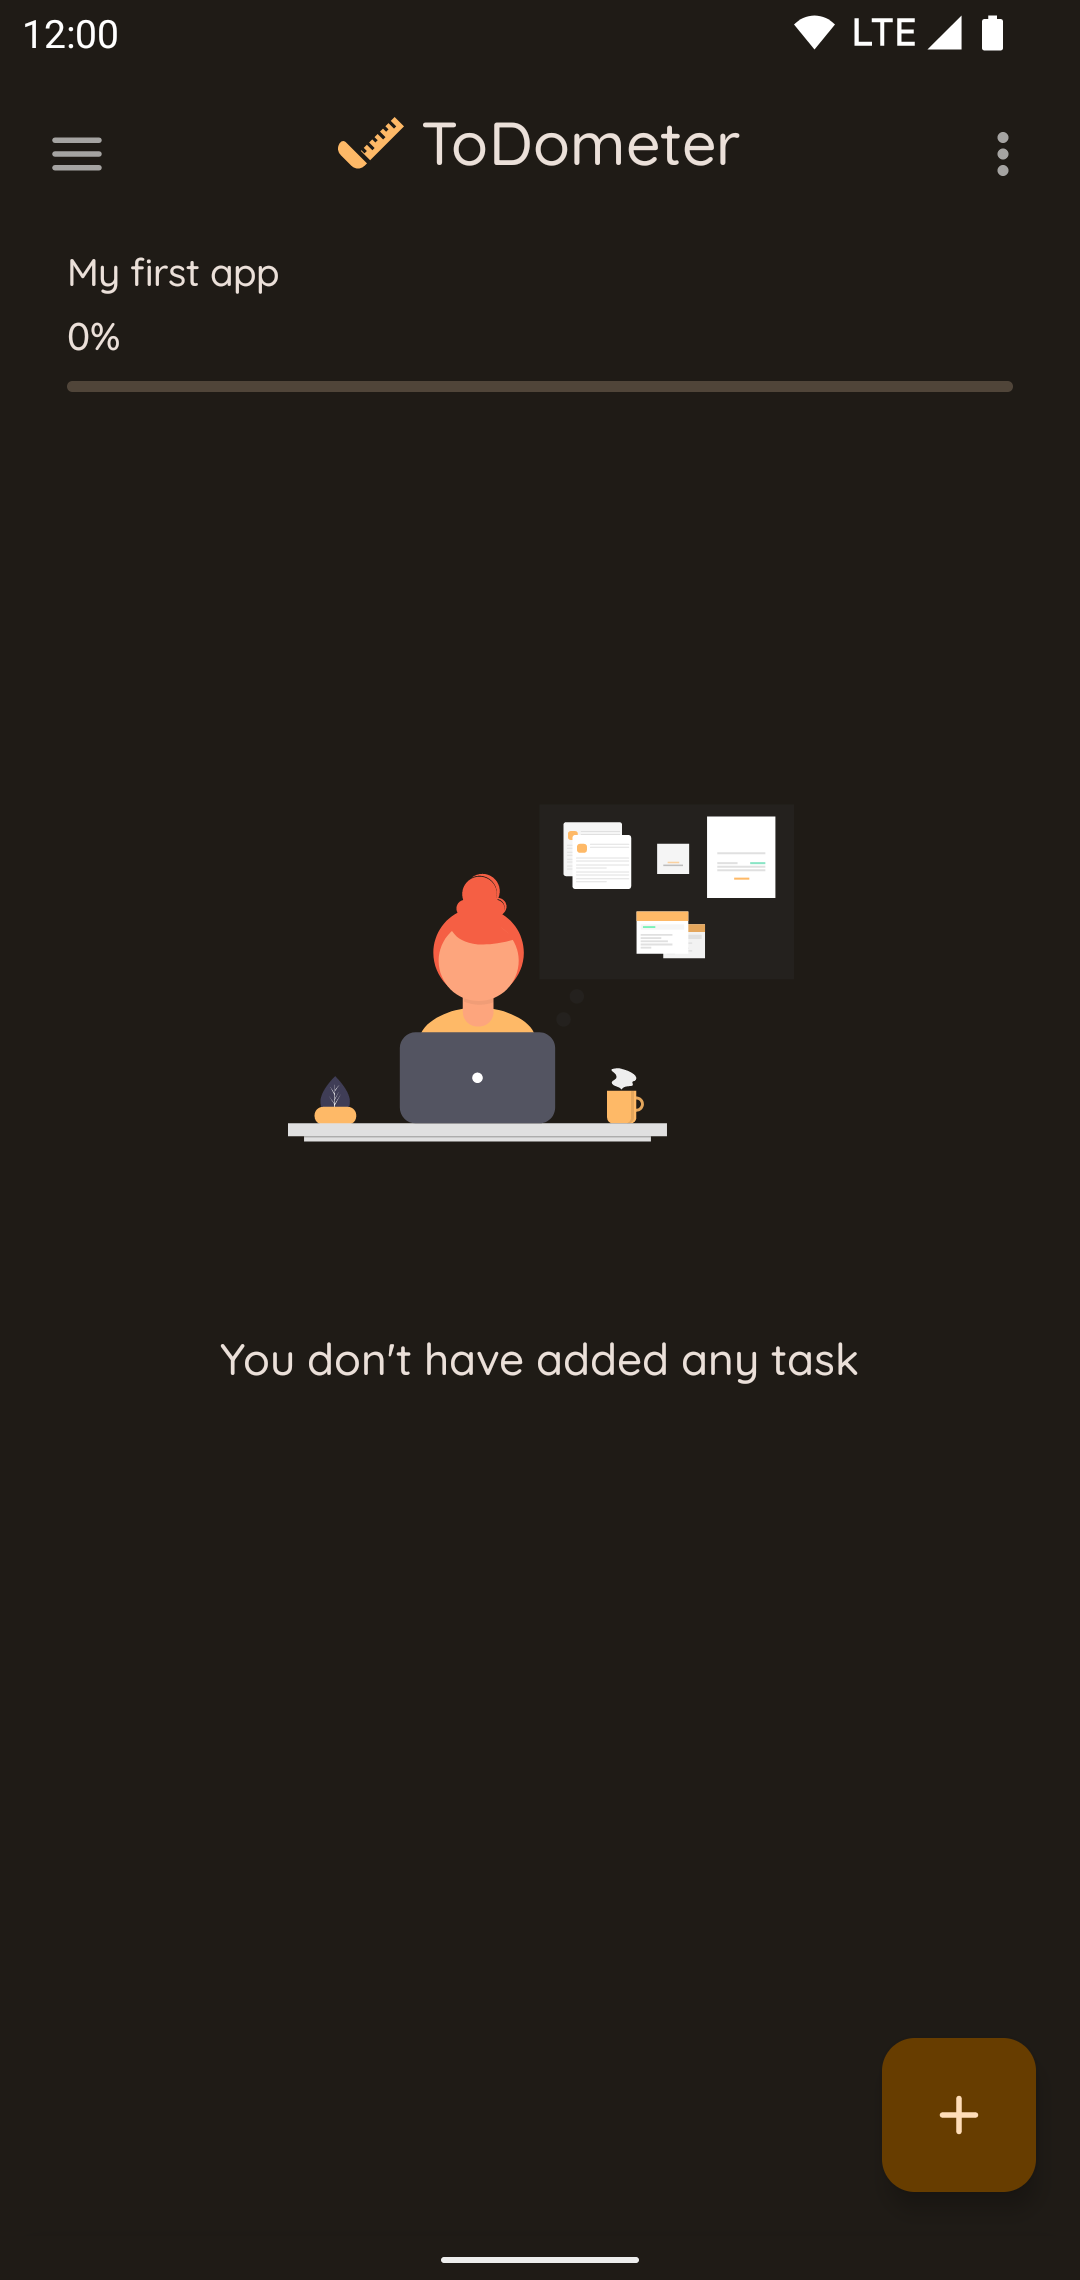
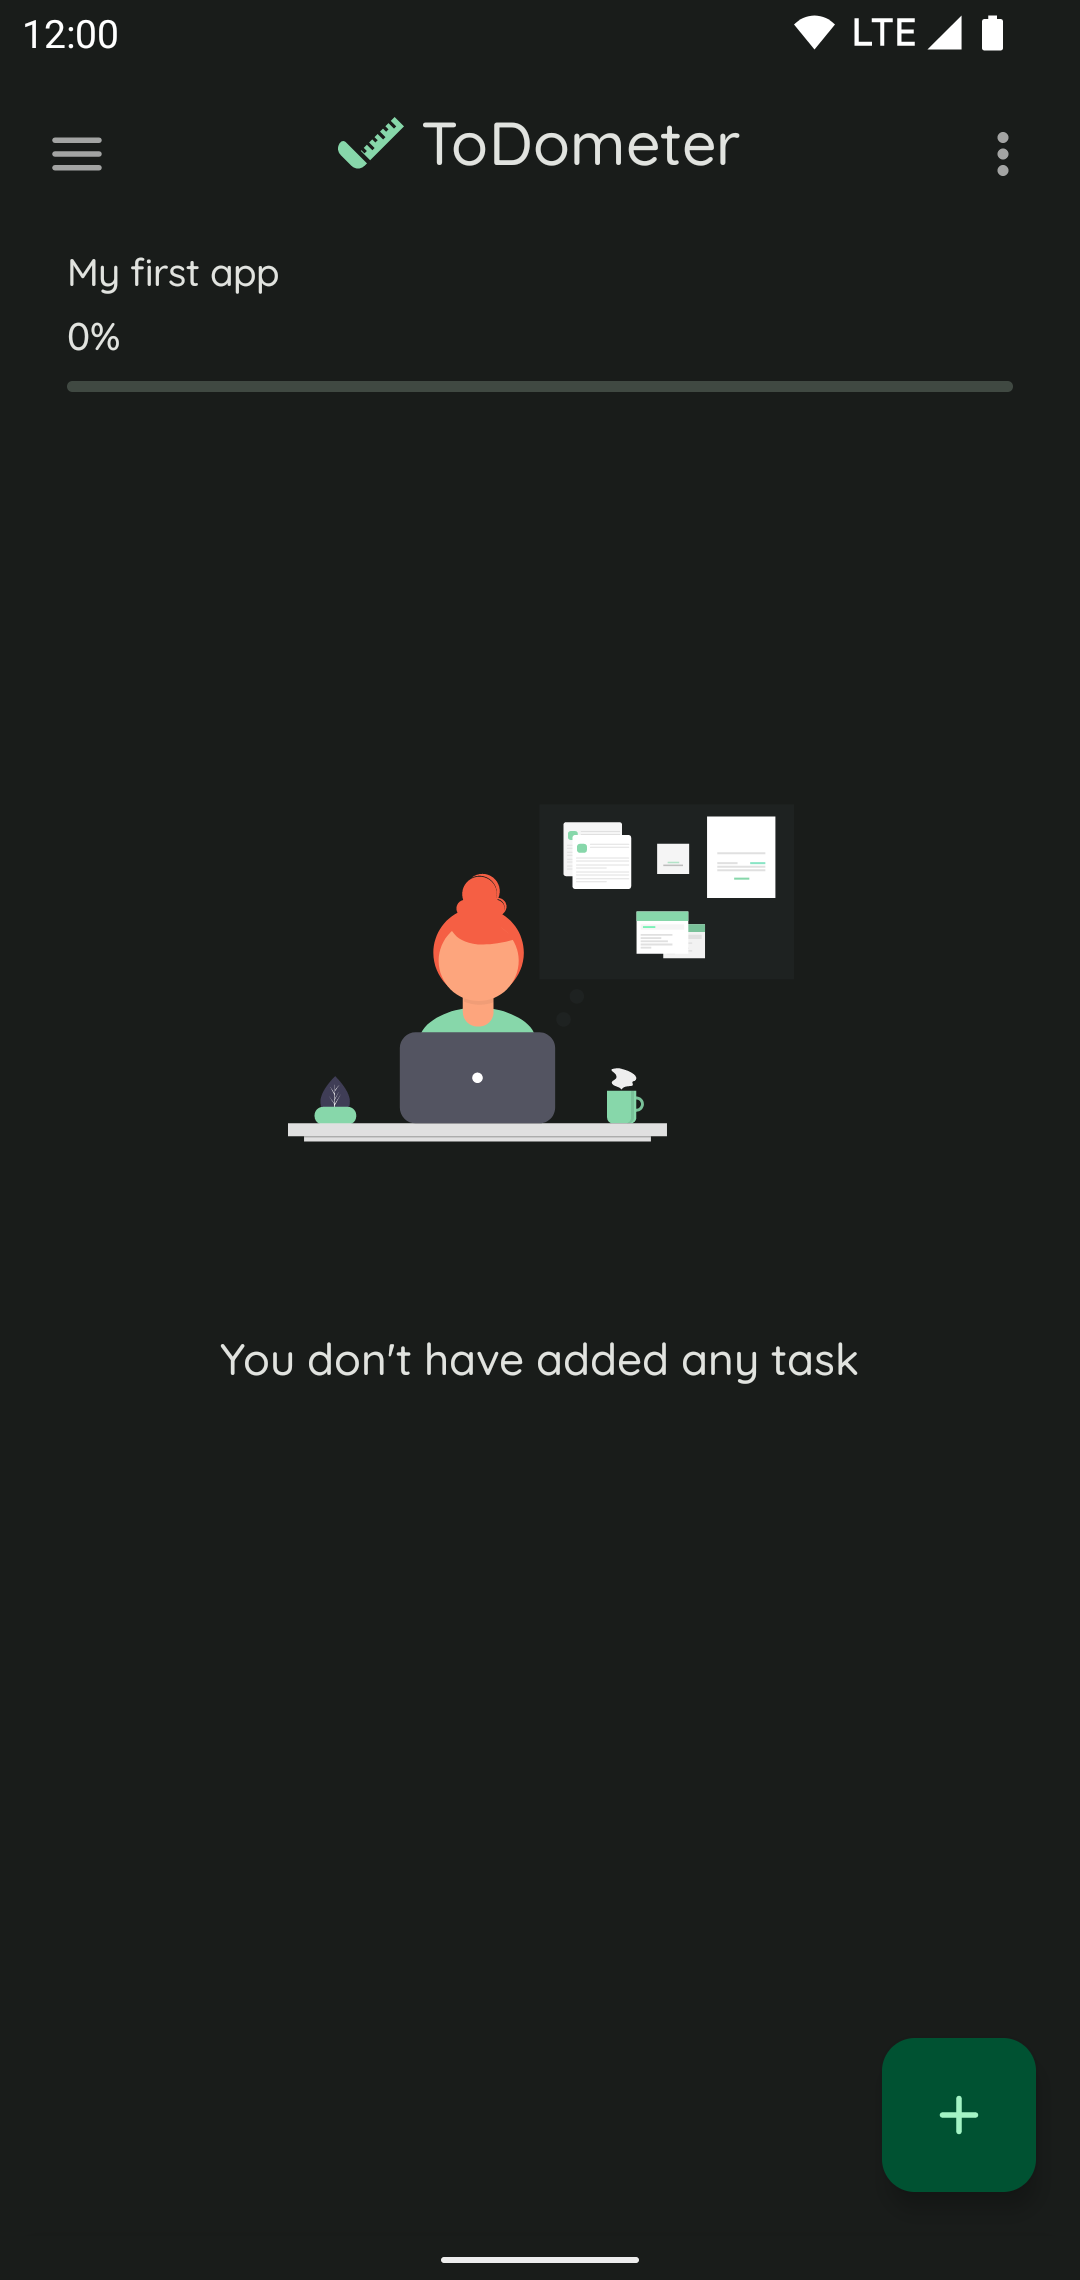
Update README.md

diff --git a/README.md b/README.md
@@ -32,8 +32,15 @@ Android and Wear OS apps are using [Firebase Crashlytics](https://firebase.googl
 | <img width="300" src="./screenshots/android/home.png" /> | <img width="300" src="./screenshots/android/add_task.png" /> | <img width="300" src="./screenshots/android/remove_task.gif" /> |
 |---|---|---|
 
-| <img width="300" src="./screenshots/android/home_2.png" /> | <img width="300" src="./screenshots/android/widget_dynamic_color.png" /> |
-|---|---|
+### Material Design 3 Dynamic color
+
+| <img width="300" src="./screenshots/android/drawer_dark_dynamic_color.png" /> | <img width="300" src="./screenshots/android/home_dark_dynamic_color.png" /> | <img width="300" src="./screenshots/android/home_light_dynamic_color.png" /> | <img width="300" src="./screenshots/android/add_task_dark_dynamic_color.png" /> |
+|---|---|---|---|
+
+### Glance App Widget - Material Design 3 Dynamic color
+
+| <img width="300" src="./screenshots/android/widget_dynamic_color.png" /> |
+|---|
 
 ### Wear OS
 
@@ -59,7 +66,7 @@ Under construction
   * [Compose Navigation](https://developer.android.com/jetpack/compose/navigation)
   * [Android KTX](https://developer.android.com/kotlin/ktx)
   * [ViewModel](https://developer.android.com/topic/libraries/architecture/viewmodel)
-  * [Glance App Widget](https://developer.android.com/jetpack/androidx/releases/glance)  
+  * [Glance App Widget](https://developer.android.com/jetpack/androidx/releases/glance)
 * [Koin](https://insert-koin.io/docs/reference/koin-android/start)
 
 ### Wear OS
